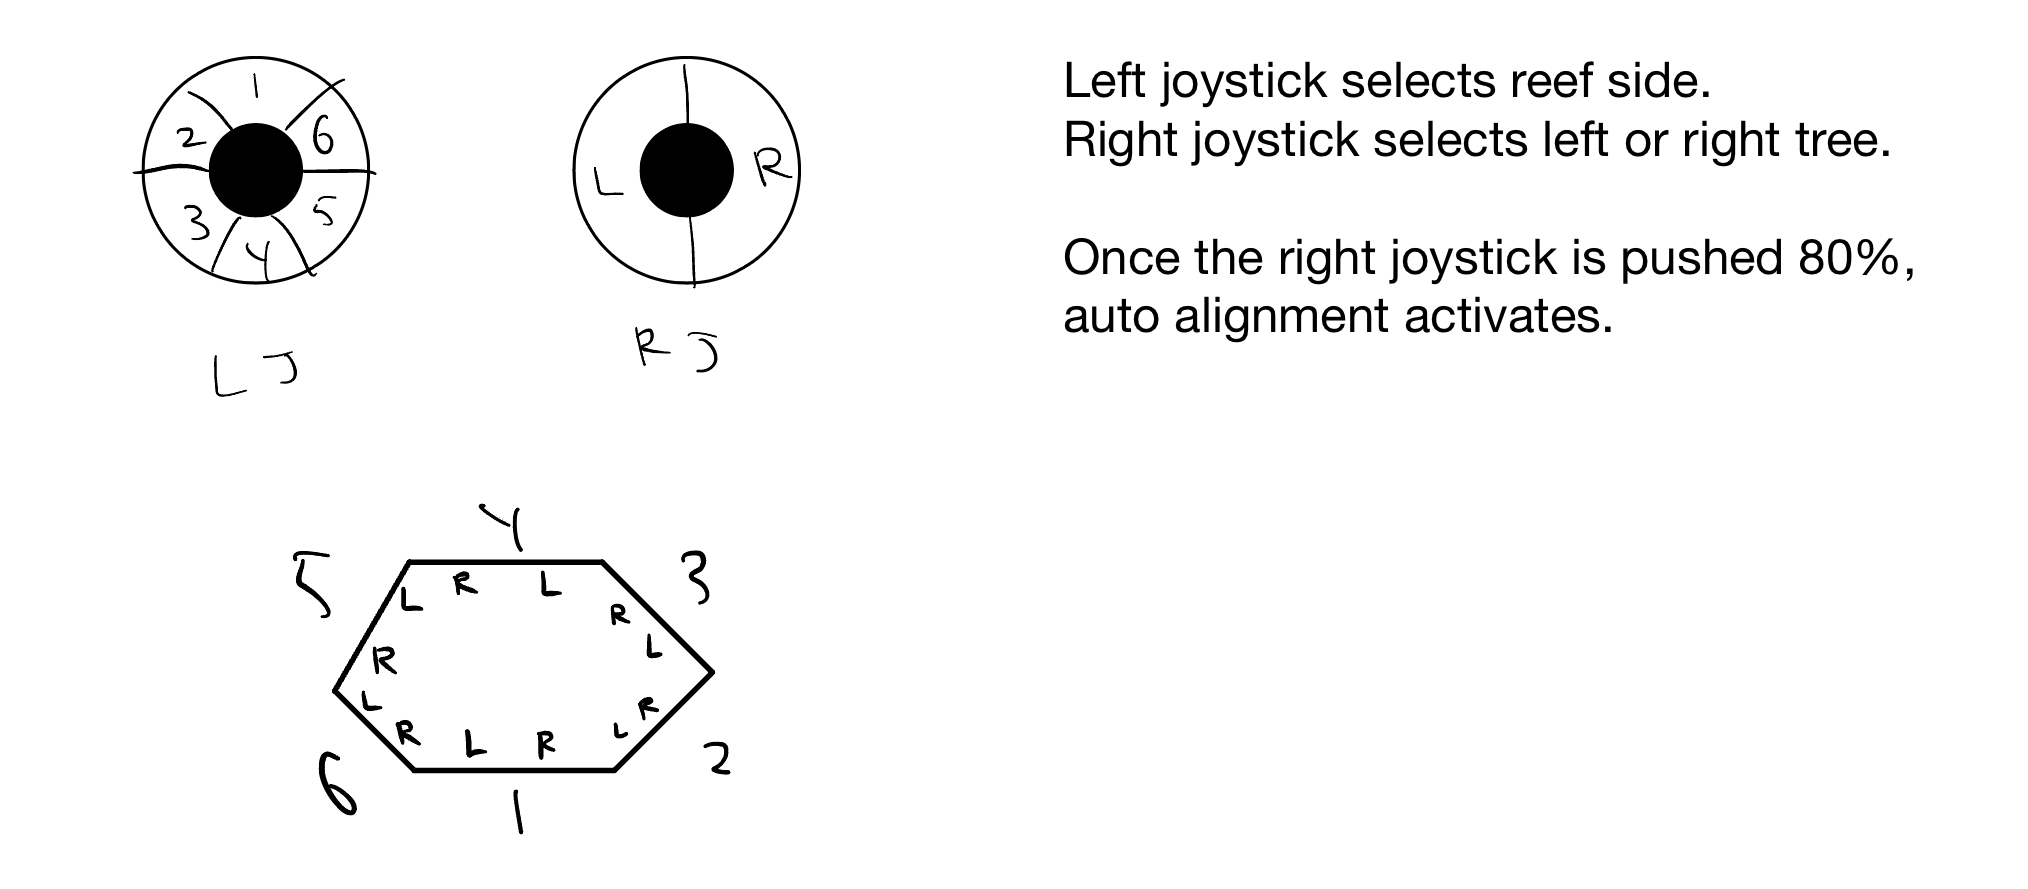
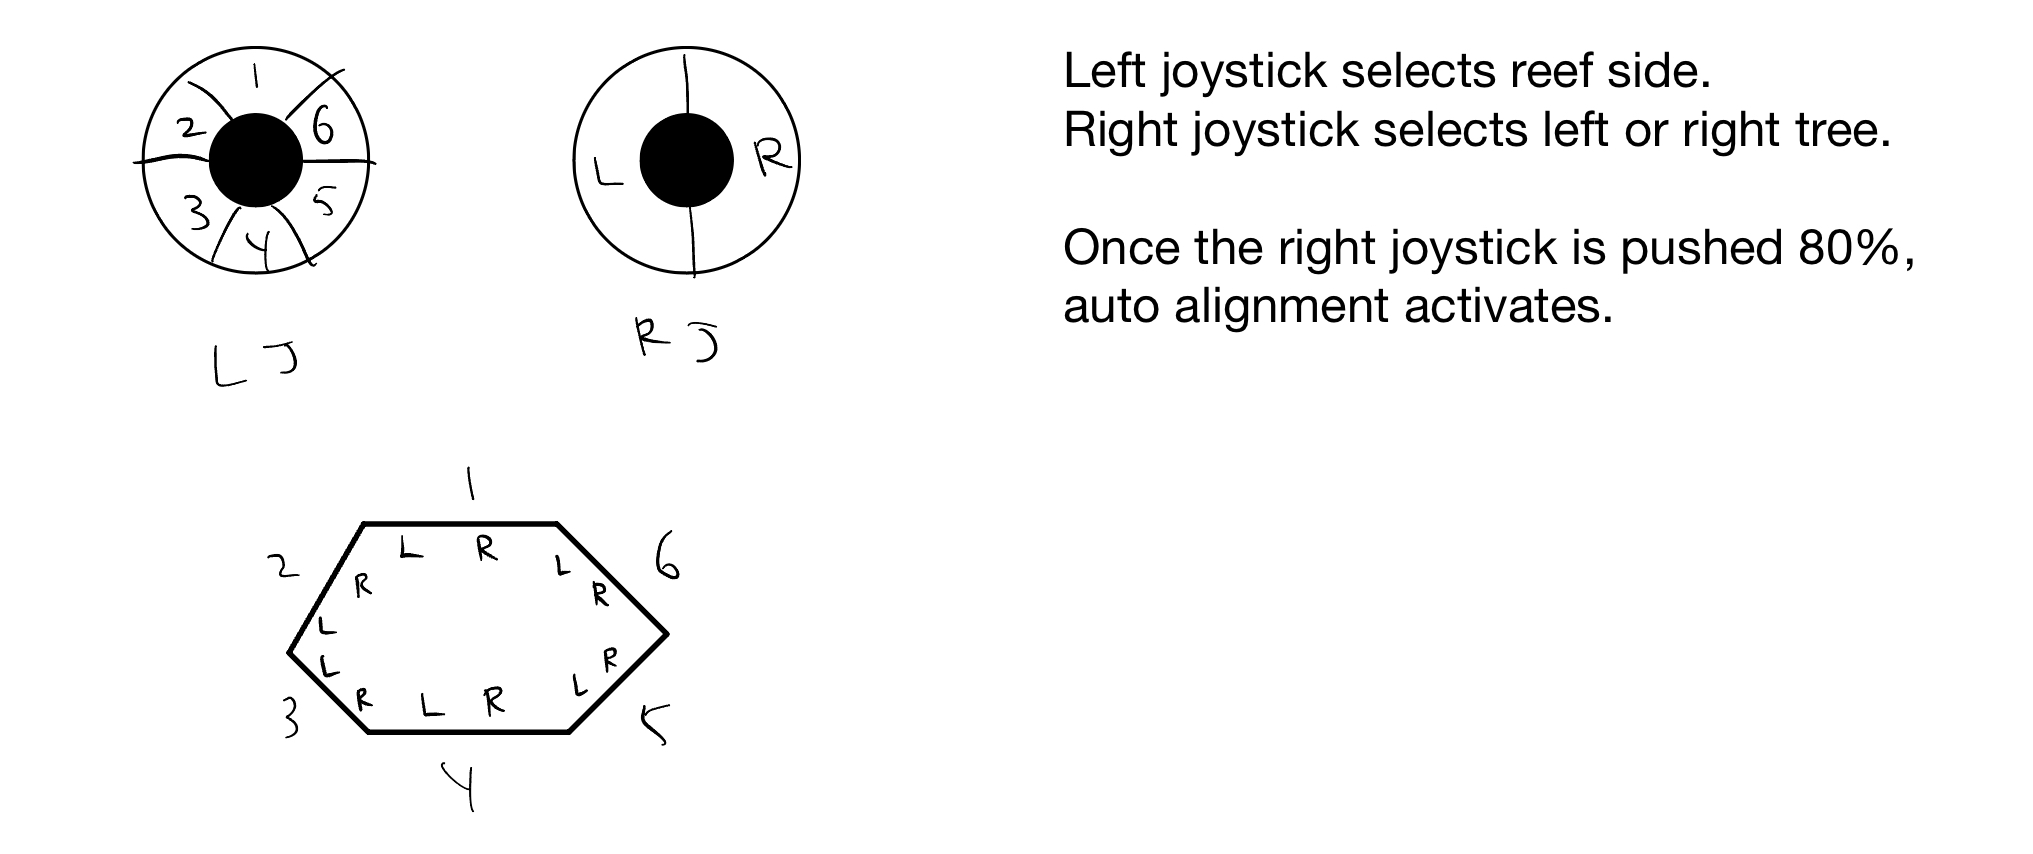
Uninverted tree selection

diff --git a/src/main/java/frc/robot/commands/AimingRoutines.java b/src/main/java/frc/robot/commands/AimingRoutines.java
@@ -255,45 +255,45 @@ public class AimingRoutines {
                                     && (rightStickAngleRadians < 3.0 * Math.PI / 2.0);
 
                             if (leftStickAngleRadians >= Math.PI / 3.0
-                                    && leftStickAngleRadians < 2.0 * Math.PI / 3.0) { // Bottom reef side
+                                    && leftStickAngleRadians < 2.0 * Math.PI / 3.0) { // 1: Top reef side
                                 if (leftTreeSelected) {
-                                    m_currentTargetPose = FieldConstants.BLUE_REEF_TREE_AIMING_POSITIONS.get(0);
+                                    m_currentTargetPose = FieldConstants.BLUE_REEF_TREE_AIMING_POSITIONS.get(7); // H
                                 } else {
-                                    m_currentTargetPose = FieldConstants.BLUE_REEF_TREE_AIMING_POSITIONS.get(1);
+                                    m_currentTargetPose = FieldConstants.BLUE_REEF_TREE_AIMING_POSITIONS.get(6); // G
                                 }
                             } else if (leftStickAngleRadians >= 2.0 * Math.PI / 3.0
-                                    && leftStickAngleRadians < Math.PI) { // Bottom right reef side
+                                    && leftStickAngleRadians < Math.PI) { // 2: Top left reef side
                                 if (leftTreeSelected) {
-                                    m_currentTargetPose = FieldConstants.BLUE_REEF_TREE_AIMING_POSITIONS.get(2);
+                                    m_currentTargetPose = FieldConstants.BLUE_REEF_TREE_AIMING_POSITIONS.get(9); // J
                                 } else {
-                                    m_currentTargetPose = FieldConstants.BLUE_REEF_TREE_AIMING_POSITIONS.get(3);
+                                    m_currentTargetPose = FieldConstants.BLUE_REEF_TREE_AIMING_POSITIONS.get(8); // I
                                 }
                             } else if (leftStickAngleRadians >= Math.PI
-                                    && leftStickAngleRadians < 4.0 * Math.PI / 3.0) { // Top right reef side
+                                    && leftStickAngleRadians < 4.0 * Math.PI / 3.0) { // 3: Bottom left reef side
                                 if (leftTreeSelected) {
-                                    m_currentTargetPose = FieldConstants.BLUE_REEF_TREE_AIMING_POSITIONS.get(4);
+                                    m_currentTargetPose = FieldConstants.BLUE_REEF_TREE_AIMING_POSITIONS.get(10); // K
                                 } else {
-                                    m_currentTargetPose = FieldConstants.BLUE_REEF_TREE_AIMING_POSITIONS.get(5);
+                                    m_currentTargetPose = FieldConstants.BLUE_REEF_TREE_AIMING_POSITIONS.get(11); // L
                                 }
                             } else if (leftStickAngleRadians >= 4.0 * Math.PI / 3.0
-                                    && leftStickAngleRadians < 5.0 * Math.PI / 3.0) { // Top reef side
+                                    && leftStickAngleRadians < 5.0 * Math.PI / 3.0) { // 4: Bottom reef side
                                 if (leftTreeSelected) {
-                                    m_currentTargetPose = FieldConstants.BLUE_REEF_TREE_AIMING_POSITIONS.get(6);
+                                    m_currentTargetPose = FieldConstants.BLUE_REEF_TREE_AIMING_POSITIONS.get(0); // A
                                 } else {
-                                    m_currentTargetPose = FieldConstants.BLUE_REEF_TREE_AIMING_POSITIONS.get(7);
+                                    m_currentTargetPose = FieldConstants.BLUE_REEF_TREE_AIMING_POSITIONS.get(1); // B
                                 }
                             } else if (leftStickAngleRadians >= 5.0 * Math.PI / 3.0
-                                    && leftStickAngleRadians < 2.0 * Math.PI) { // Top left reef side
+                                    && leftStickAngleRadians < 2.0 * Math.PI) { // 5: Bottom right reef side
                                 if (leftTreeSelected) {
-                                    m_currentTargetPose = FieldConstants.BLUE_REEF_TREE_AIMING_POSITIONS.get(8);
+                                    m_currentTargetPose = FieldConstants.BLUE_REEF_TREE_AIMING_POSITIONS.get(2); // C
                                 } else {
-                                    m_currentTargetPose = FieldConstants.BLUE_REEF_TREE_AIMING_POSITIONS.get(9);
+                                    m_currentTargetPose = FieldConstants.BLUE_REEF_TREE_AIMING_POSITIONS.get(3); // D
                                 }
-                            } else { // Bottom left reef side
+                            } else { // 6: Top right reef side
                                 if (leftTreeSelected) {
-                                    m_currentTargetPose = FieldConstants.BLUE_REEF_TREE_AIMING_POSITIONS.get(10);
+                                    m_currentTargetPose = FieldConstants.BLUE_REEF_TREE_AIMING_POSITIONS.get(5); // F
                                 } else {
-                                    m_currentTargetPose = FieldConstants.BLUE_REEF_TREE_AIMING_POSITIONS.get(11);
+                                    m_currentTargetPose = FieldConstants.BLUE_REEF_TREE_AIMING_POSITIONS.get(4); // E
                                 }
                             }
                             // Flip from blue target to red target if on red alliance
